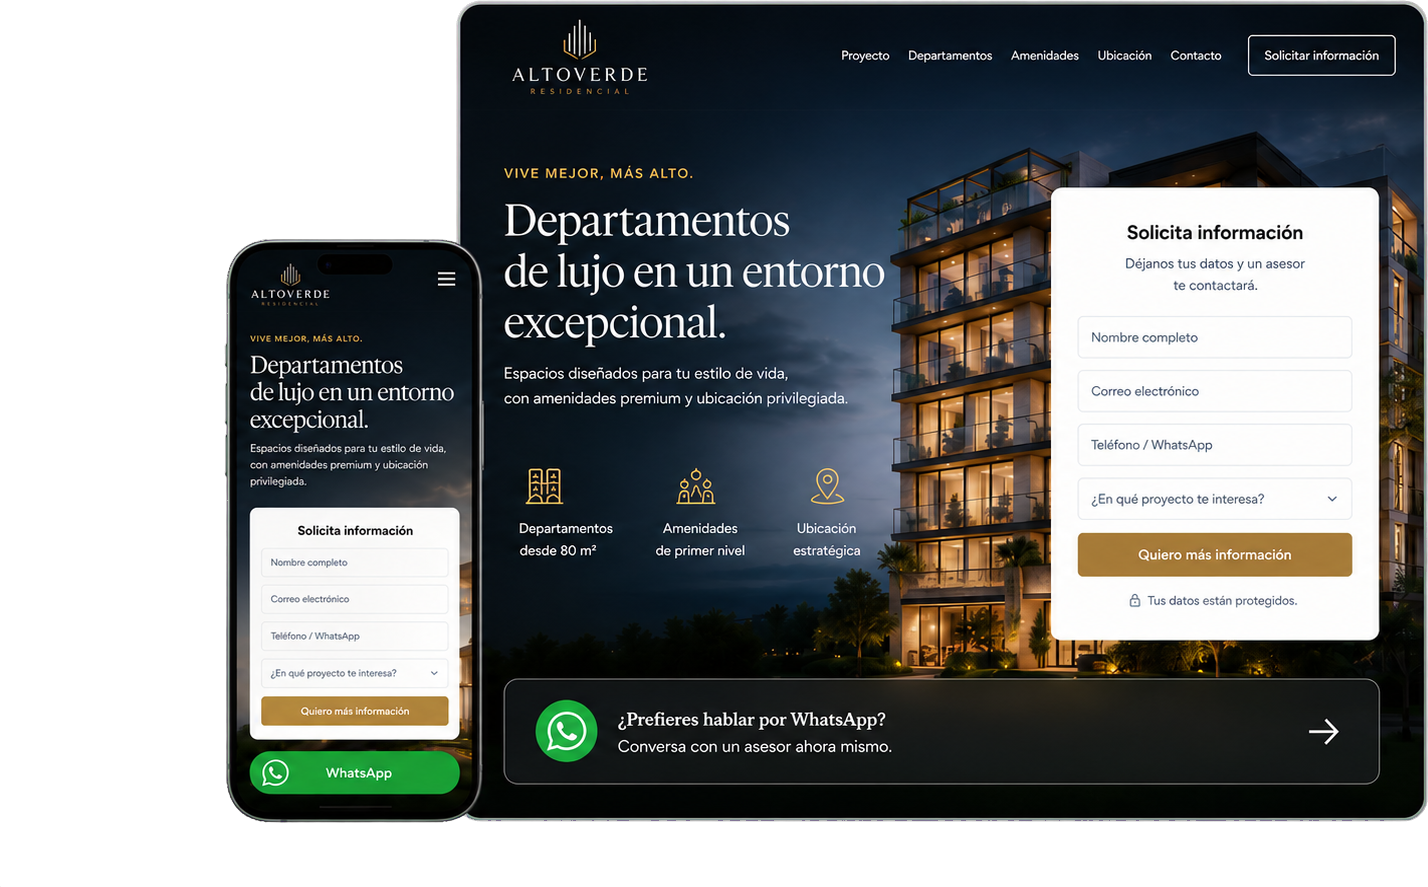
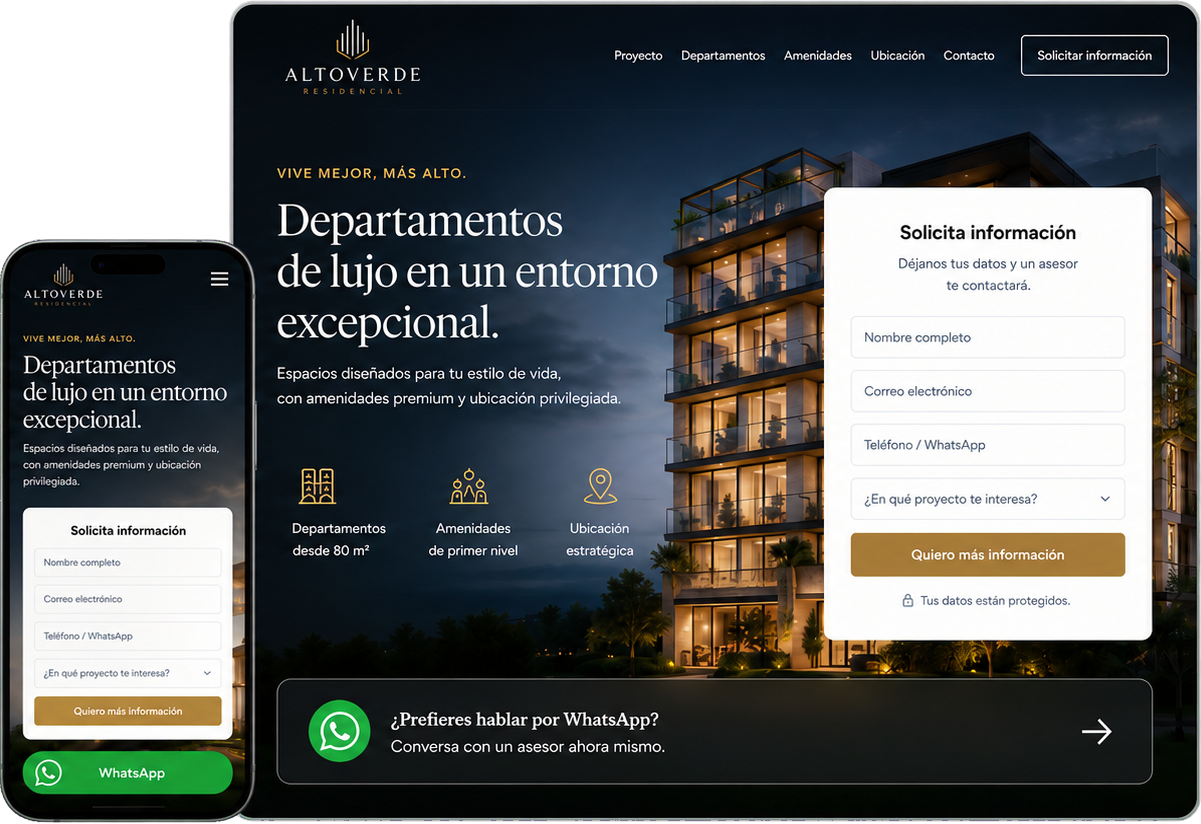
2026-07-23_05:54_A22@@@_restaurar-estilos-seccion-03

diff --git a/src/pages/3-sistemas-digitales/SistemasDigitalesPage.jsx b/src/pages/3-sistemas-digitales/SistemasDigitalesPage.jsx
@@ -1096,7 +1096,7 @@ export default function SistemasDigitalesPage() {
               DESARROLLO WEB Y PÁGINAS DE CAPTACIÓN / 03
             </p>
             <h2
-              className="mt-3 text-[clamp(1.9rem,4.5vw,3.2rem)] uppercase leading-[0.9] tracking-[-0.04em] text-[#191918]"
+              className="mt-3 text-[clamp(2.3rem,5.3vw,4.0rem)] uppercase leading-[0.9] tracking-[-0.04em] text-[#191918]"
               style={displayFont}
             >
               PÁGINAS WEB PARA PRESENTAR,{" "}
@@ -1107,18 +1107,20 @@ export default function SistemasDigitalesPage() {
               Desarrollamos plataformas web de alto rendimiento. Desde la estructura visual hasta la integración técnica, diseñamos páginas preparadas para recibir tráfico, captar consultas y registrar cada oportunidad.
             </p>
 
-            <div className="mt-8 flex flex-wrap gap-3 border-t border-black/10 pt-6">
+            <div className="mt-8 grid gap-6 sm:grid-cols-3 border-t border-black/10 pt-6">
               {webCapEditorialColumns.map(function (col, index) {
                 const Icon = col.icon;
                 return (
                   <motion.div
                     key={col.title}
-                    whileHover={reduceMotion ? {} : { y: -2 }}
+                    whileHover={reduceMotion ? {} : { y: -3 }}
                     transition={{ duration: 0.25, ease: "easeOut" }}
-                    className="group cursor-default flex items-center gap-2.5 rounded-full bg-white px-5 py-2.5 shadow-[0_4px_14px_rgba(0,0,0,0.03)] border border-black/5"
+                    className={`group cursor-pointer pr-2 ${
+                      index !== 2 ? "sm:border-r sm:border-black/10 sm:pr-4" : ""
+                    }`}
                   >
-                    <Icon className="h-4 w-4 text-[#ff4b0b] transition-transform duration-300 group-hover:scale-110" />
-                    <h3 className="text-[13px] font-bold text-[#191918]">
+                    <Icon className="h-6 w-6 text-[#ff4b0b] mb-3 transition-transform duration-300 ease-out group-hover:scale-110 group-hover:-translate-y-0.5" />
+                    <h3 className="text-[16px] font-bold leading-tight text-[#191918] transition-colors duration-300 group-hover:text-[#ff4b0b]">
                       {col.title}
                     </h3>
                   </motion.div>

diff --git a/src/pages/11-Proyectos/ProyectosPage.jsx b/src/pages/11-Proyectos/ProyectosPage.jsx
@@ -97,7 +97,6 @@ const projects = [
     tags: ['Branding', 'Contenido visual', 'Packaging'],
     categories: ['Branding', 'Contenido visual'],
     kind: 'Proyecto',
-    tall: true,
   },
 ]
 
